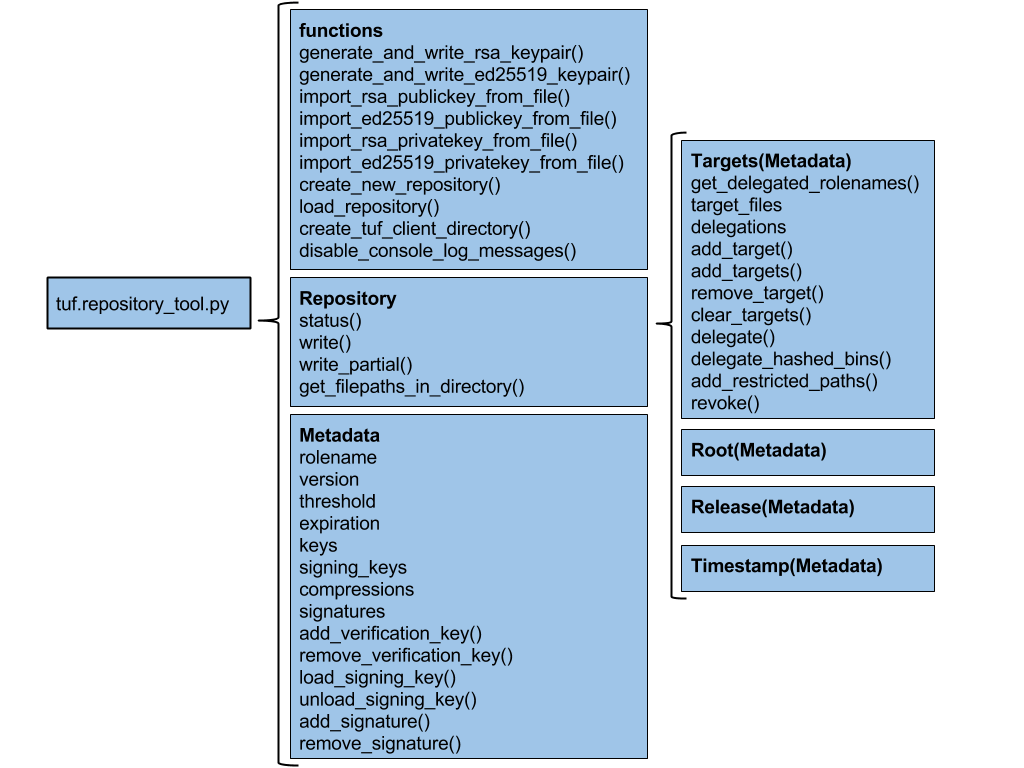
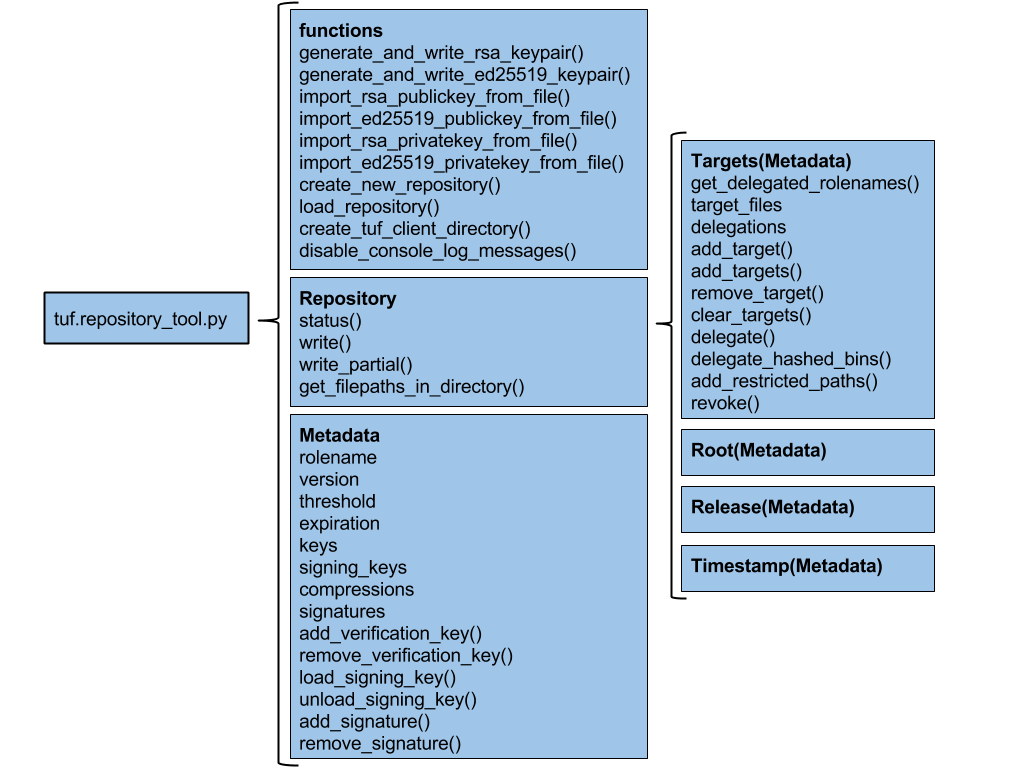
Update repository tool diagram and coverage.
Fix text box alignment in diagram.
Omit coverage of repository tool prompt and getpass.
Minor coverage update.

Changed region(s): [[0.0312, 0.3438, 0.25, 0.4688]]

diff --git a/tuf/repository_lib.py b/tuf/repository_lib.py
@@ -1753,8 +1753,8 @@ def sign_metadata(metadata_object, keyids, filename):
     key = tuf.keydb.get_key(keyid)
     logger.info('Signing '+repr(filename)+' with '+key['keyid'])
 
-    # Create a new signature list.  If 'keyid' is encountered,
-    # do not add it to new list.
+    # Create a new signature list.  If 'keyid' is encountered, do not add it
+    # to the new list.
     signatures = []
     for signature in signable['signatures']:
       if not keyid == signature['keyid']:
